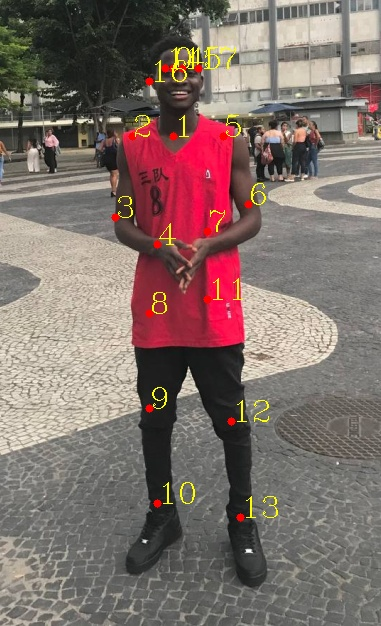
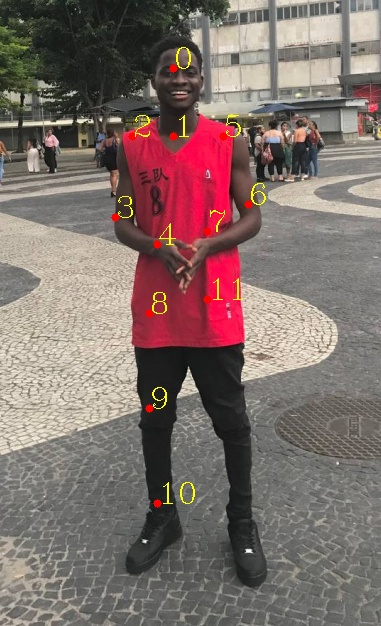
FIX:Ajuste

diff --git a/OpenPoseImageCoco.cpp b/OpenPoseImageCoco.cpp
@@ -10,15 +10,19 @@ using namespace cv::dnn;
 
 //DEFINDO MODELO
 #define COCO
-#ifdef COCO
-const int POSE_PAIRS[17][2] = 
-{   
-    {1,2}, {1,5}, {2,3},
-    {3,4}, {5,6}, {6,7},
-    {1,8}, {8,9}, {9,10},
-    {1,11}, {11,12}, {12,13},
-    {1,0}, {0,14},
-    {14,16}, {0,15}, {15,17}
+const int POSE_PAIRS[10][2] = {
+    {0,1},    // Cabeça → Peito
+    {1,2},    // Peito → Ombro esquerdo
+    {1,3},    // Peito → Ombro direito
+    {2,4},    // Ombro esquerdo → Cotovelo esquerdo
+    {3,5},    // Ombro direito → Cotovelo direito
+    {4,6},    // Cotovelo esquerdo → Pulso esquerdo
+    {5,7},    // Cotovelo direito → Pulso direito
+    {1,8},    // Peito → Joelho esquerdo
+    {8,9},    // Joelho esquerdo → Tornozelo esquerdo
+    {1,10},   // Peito → Joelho direito
+    // {10,11} opcional se quiser fechar até tornozelo dir
+    {10,11}   // Joelho direito → Tornozelo direito
 };
 
 //Acessando rquitetura da rede neural
@@ -26,7 +30,7 @@ string protoFile = "coco/pose_deploy_linevec.prototxt";
 //Armazena os pesos do modelo treinado
 string weightsFile = "coco/pose_iter_440000.caffemodel";
 //18 pontos de corpos
-int nPoints = 18;
+int nPoints = 12;
 #endif
 //
 int main(int argc, char **argv)
